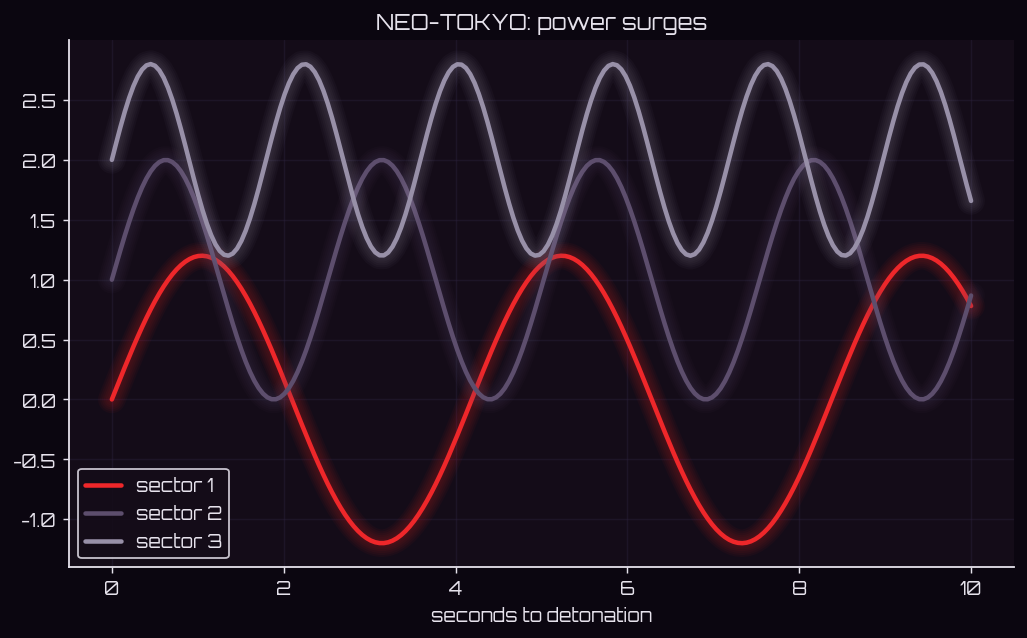
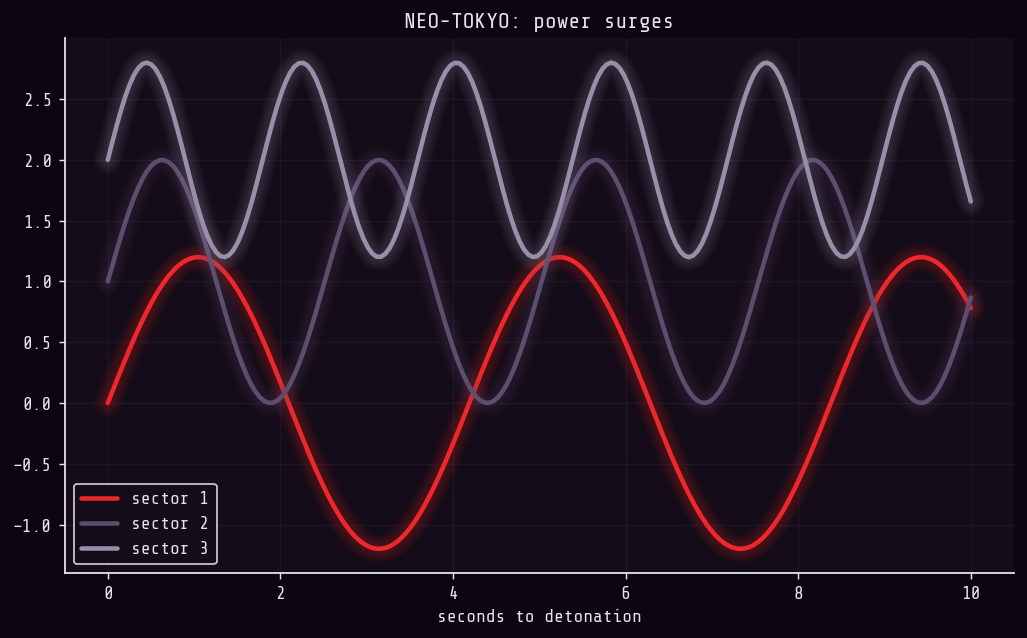
fix: clean tick numerals and a proof-grade accessibility figure
Orbitron renders 0 with a diagonal slash that read as a doubled tick on every numeric chart (visible in the hero and multibackend images). Moved blade_runner/akira/tron to Share Tech Mono and blade_runner_2049 to Space Grotesk: clean digits, still sci-fi. The accessibility figure now simulates the palette under deuteranopia/protanopia/tritanopia to show the collapse and the repair (delta E 0.5 to 11.3), instead of swatches normal vision can already tell apart. Regenerated affected cards, the hero, the multibackend images, and the reel.

diff --git a/scripts/generate_gallery.py b/scripts/generate_gallery.py
@@ -455,23 +455,44 @@ def hero() -> Figure:
 
 
 def accessibility_demo() -> Figure:
-    """Show a theme palette beside its colorblind-safe variant."""
-    theme = cs.get_theme("blade_runner")
-    safe = cs.repair("blade_runner")
-    fig, axes = plt.subplots(1, 2, figsize=(11.0, 3.2), facecolor="#0A0C12")
-    for ax, palette, title in (
-        (axes[0], theme.palette, "blade_runner"),
-        (axes[1], safe, "repaired (colorblind safe)"),
-    ):
-        for i, hex_color in enumerate(palette):
+    """Show a palette collapsing under color-vision deficiency, then repaired.
+
+    Normal vision tells the original colors apart, so swatches alone prove
+    nothing; the simulated rows are where the collapse (and the fix) show.
+    """
+    name = "her"  # its warm palette collapses badly under red-green CVD
+    palette = cs.get_theme(name).palette
+    repaired = cs.repair(name)
+    rows = [
+        (palette, f"{name} (original)"),
+        (cs.accessibility.simulate_palette(palette, "deutan"), "deuteranopia"),
+        (cs.accessibility.simulate_palette(palette, "protan"), "protanopia"),
+        (cs.accessibility.simulate_palette(palette, "tritan"), "tritanopia"),
+        (repaired, "repaired, colorblind safe"),
+    ]
+    fig, axes = plt.subplots(len(rows), 1, figsize=(11.0, 6.0), facecolor="#101216")
+    for ax, (colors, label) in zip(axes, rows, strict=False):
+        for i, hex_color in enumerate(colors):
             ax.add_patch(plt.Rectangle((i, 0), 1, 1, facecolor=hex_color))
-        ax.set_xlim(0, len(palette))
+        ax.set_xlim(0, len(colors))
         ax.set_ylim(0, 1)
-        ax.set_title(title, color="white", fontsize=13)
+        ax.set_ylabel(
+            label, color="#dcdcdc", fontsize=11, rotation=0, ha="right", va="center"
+        )
         ax.set_xticks([])
         ax.set_yticks([])
-        ax.set_facecolor("#0A0C12")
-    fig.tight_layout()
+        ax.set_facecolor("#101216")
+        for spine in ax.spines.values():
+            spine.set_visible(False)
+    before = cs.audit(name).cvd_min_delta_e["deutan"]
+    after = cs.audit(repaired).cvd_min_delta_e["deutan"]
+    fig.suptitle(
+        f"cs.audit('{name}'): min delta E {before:.1f} under deuteranopia, "
+        f"repaired to {after:.1f}",
+        color="white",
+        fontsize=13,
+    )
+    fig.tight_layout(rect=(0, 0, 1, 0.95))
     return fig
 
 

diff --git a/cinestyle/registry.py b/cinestyle/registry.py
@@ -168,7 +168,7 @@ _THEME_LIST: list[Theme] = [
         foreground="#08F7FE",
         muted="#2E2150",
         grid=True,
-        font_family="Orbitron",
+        font_family="Share Tech Mono",
         glow=0.7,
         seq_anchor="#08F7FE",
         div_pair=("#FE53BB", "#08F7FE"),
@@ -293,7 +293,7 @@ _THEME_LIST: list[Theme] = [
         foreground="#E6E2EC",
         muted="#2D2440",
         grid=True,
-        font_family="Orbitron",
+        font_family="Share Tech Mono",
         glow=0.55,
         seq_anchor="#EE272A",
         div_pair=("#5D4E6D", "#EE272A"),
@@ -325,7 +325,7 @@ _THEME_LIST: list[Theme] = [
         foreground="#D0DFE6",
         muted="#1E2A33",
         grid=True,
-        font_family="Orbitron",
+        font_family="Share Tech Mono",
         glow=0.6,
         seq_anchor="#6EE2FF",
         div_pair=("#6EE2FF", "#F7C530"),
@@ -472,7 +472,7 @@ _THEME_LIST: list[Theme] = [
         foreground="#DDE6E6",
         muted="#1C2D31",
         grid=True,
-        font_family="Orbitron",
+        font_family="Space Grotesk",
         glow=0.1,
         seq_anchor="#027F93",
         div_pair=("#027F93", "#F78B04"),

diff --git a/README.md b/README.md
@@ -120,7 +120,7 @@ data by `python scripts/generate_gallery.py` (add `--reel` to rebuild the GIF).
 | `noir` | Film noir / chiaroscuro | Oswald |
 | `ghibli` | Studio Ghibli | EB Garamond |
 | `wes_anderson` | Wes Anderson | Jost |
-| `blade_runner` | Blade Runner (neon-noir) | Orbitron |
+| `blade_runner` | Blade Runner (neon-noir) | Share Tech Mono |
 | `star_wars` | Star Wars | Oswald |
 | `matrix` | The Matrix | Share Tech Mono |
 | `dune` | Dune (Villeneuve) | Space Grotesk |
@@ -128,9 +128,9 @@ data by `python scripts/generate_gallery.py` (add `--reel` to rebuild the GIF).
 | `kill_bill` | Kill Bill | Bebas Neue |
 | `in_the_mood` | In the Mood for Love | EB Garamond |
 | `sin_city` | Sin City | Anton |
-| `akira` | Akira | Orbitron |
+| `akira` | Akira | Share Tech Mono |
 | `the_fall` | The Fall (Tarsem) | EB Garamond |
-| `tron` | Tron: Legacy | Orbitron |
+| `tron` | Tron: Legacy | Share Tech Mono |
 | `amelie` | Amélie | EB Garamond |
 | `the_shining` | The Shining (Kubrick) | Bebas Neue |
 | `drive` | Drive | Share Tech Mono |
@@ -139,7 +139,7 @@ data by `python scripts/generate_gallery.py` (add `--reel` to rebuild the GIF).
 | `hero` | Hero (Zhang Yimou) | Oswald |
 | `suspiria` | Suspiria | Anton |
 | `moonlight` | Moonlight | Jost |
-| `blade_runner_2049` | Blade Runner 2049 | Orbitron |
+| `blade_runner_2049` | Blade Runner 2049 | Space Grotesk |
 | `her` | Her | EB Garamond |
 
 Each `Theme` exposes its `palette`, `sequential` and `diverging` colormaps,
